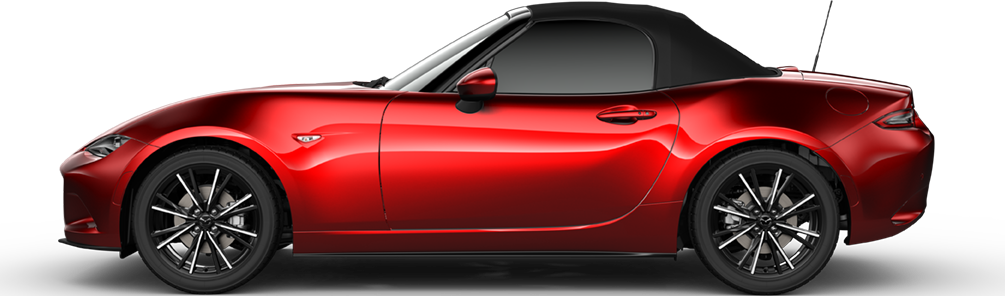
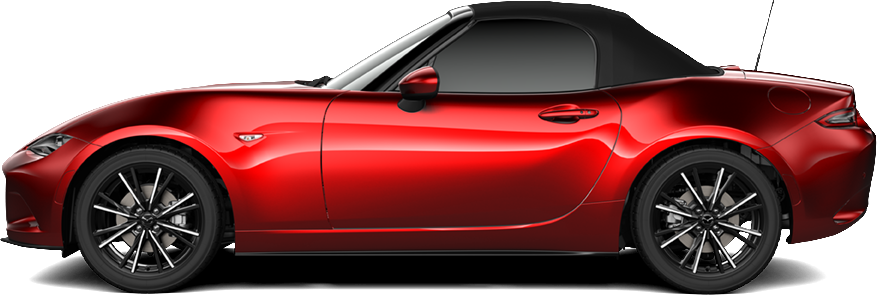
fix: visual issues

diff --git a/src/views/CarMaintenanceView.vue b/src/views/CarMaintenanceView.vue
@@ -7,8 +7,8 @@
           <img
             class="cm-stage__car"
             :src="mx5Photo"
-            width="1005"
-            height="296"
+            width="877"
+            height="295"
             alt="Mazda MX-5 (ND, 2015) in Soul Red Crystal with the soft top up"
           />
           <img class="cm-stage__reflection" :src="mx5Reflection" alt="" aria-hidden="true" />